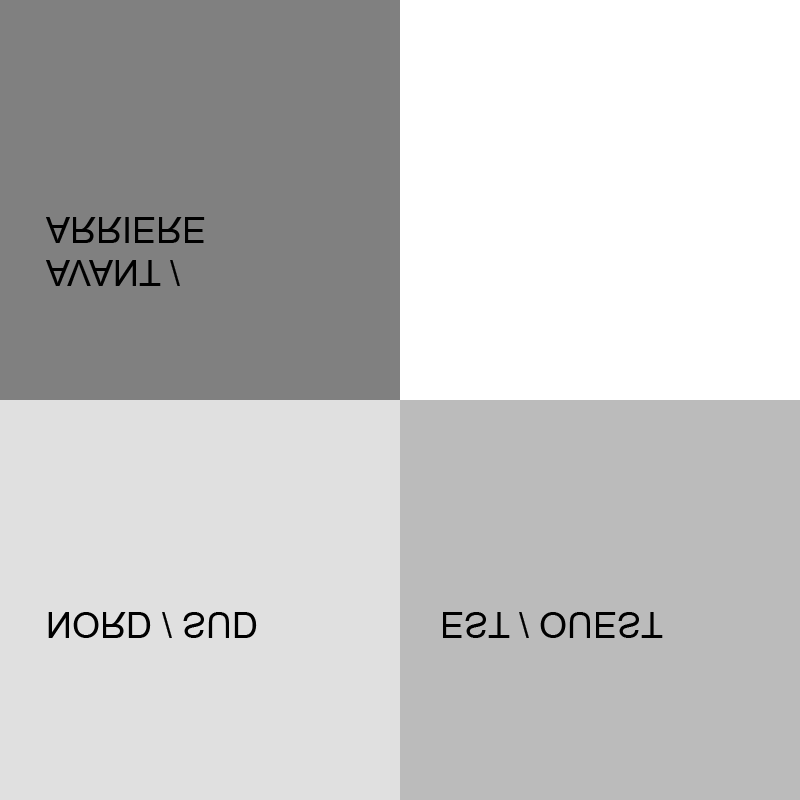
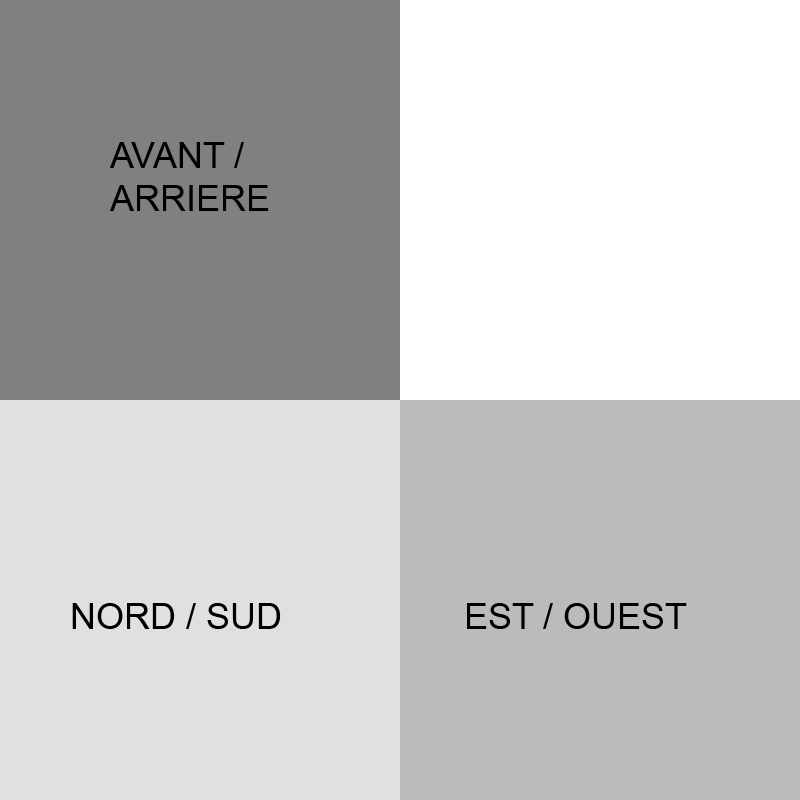
Mise en place d'une texture avec une template finale

Changed region(s): [[0.0625, 0.1562, 0.3438, 0.375], [0.5312, 0.75, 0.875, 0.8125], [0.0625, 0.75, 0.375, 0.8125]]

diff --git a/src/imac2gl3/shapes/Cube.cpp b/src/imac2gl3/shapes/Cube.cpp
@@ -21,7 +21,7 @@ void Cube::build(GLfloat size) {
             m_pDataPointer[0].normal.z = 1.f ;
 
 	    m_pDataPointer[0].texCoords.x = 0.f ;
-            m_pDataPointer[0].texCoords.y = 0.f;
+            m_pDataPointer[0].texCoords.y = 0.5f;
             
            
 
@@ -35,7 +35,7 @@ void Cube::build(GLfloat size) {
             m_pDataPointer[1].normal.z = 1.f;
 
 	    m_pDataPointer[1].texCoords.x = 0.5f;
-            m_pDataPointer[1].texCoords.y = 0.f;
+            m_pDataPointer[1].texCoords.y = 0.5f;
             
        
 
@@ -49,7 +49,7 @@ void Cube::build(GLfloat size) {
             m_pDataPointer[2].normal.z = 1.f;
 
 	    m_pDataPointer[2].texCoords.x = 0.5f;
-            m_pDataPointer[2].texCoords.y = 0.5f;
+            m_pDataPointer[2].texCoords.y = 0.f;
             
              
 
@@ -65,7 +65,7 @@ void Cube::build(GLfloat size) {
             m_pDataPointer[3].normal.z = 1.f ;
 
 	    m_pDataPointer[3].texCoords.x = 0.f ;
-            m_pDataPointer[3].texCoords.y = 0.f;
+            m_pDataPointer[3].texCoords.y = 0.5f;
             
            
 
@@ -79,7 +79,7 @@ void Cube::build(GLfloat size) {
             m_pDataPointer[4].normal.z = 1.f;
 
 	    m_pDataPointer[4].texCoords.x = 0.5f;
-            m_pDataPointer[4].texCoords.y = 0.5f;
+            m_pDataPointer[4].texCoords.y = 0.f;
             
        
 
@@ -93,7 +93,7 @@ void Cube::build(GLfloat size) {
             m_pDataPointer[5].normal.z = 1.f;
 
 	    m_pDataPointer[5].texCoords.x = 0.f;
-            m_pDataPointer[5].texCoords.y = 0.5f;
+            m_pDataPointer[5].texCoords.y = 0.f;
             
 
 /* FACE EST 1 */
@@ -108,7 +108,7 @@ void Cube::build(GLfloat size) {
             m_pDataPointer[6].normal.z = 0.f ;
 
 	    m_pDataPointer[6].texCoords.x = 0.5f ;
-            m_pDataPointer[6].texCoords.y = 0.5f;
+            m_pDataPointer[6].texCoords.y = 1.f;
             
            
 
@@ -122,7 +122,7 @@ void Cube::build(GLfloat size) {
             m_pDataPointer[7].normal.z = 0.f;
 
 	    m_pDataPointer[7].texCoords.x = 1.f;
-            m_pDataPointer[7].texCoords.y = 0.5f;
+            m_pDataPointer[7].texCoords.y = 1.f;
             
        
 
@@ -136,7 +136,7 @@ void Cube::build(GLfloat size) {
             m_pDataPointer[8].normal.z = 0.f;
 
 	    m_pDataPointer[8].texCoords.x = 1.f;
-            m_pDataPointer[8].texCoords.y = 1.f;
+            m_pDataPointer[8].texCoords.y = 0.5f;
 
 /* FACE EST 2 */
 
@@ -150,7 +150,7 @@ void Cube::build(GLfloat size) {
             m_pDataPointer[9].normal.z = 0.f ;
 
 	    m_pDataPointer[9].texCoords.x = 0.5f ;
-            m_pDataPointer[9].texCoords.y = 0.5f;
+            m_pDataPointer[9].texCoords.y = 1.f;
             
            
 
@@ -164,7 +164,7 @@ void Cube::build(GLfloat size) {
             m_pDataPointer[10].normal.z = 0.f;
 
 	    m_pDataPointer[10].texCoords.x = 1.f;
-            m_pDataPointer[10].texCoords.y = 1.f;
+            m_pDataPointer[10].texCoords.y = 0.5f;
             
        
 
@@ -178,7 +178,7 @@ void Cube::build(GLfloat size) {
             m_pDataPointer[11].normal.z = 0.f;
 
 	    m_pDataPointer[11].texCoords.x = 0.5f;
-            m_pDataPointer[11].texCoords.y = 1.f;
+            m_pDataPointer[11].texCoords.y = 0.5f;
 
 /* FACE OUEST 1 */
 
@@ -192,7 +192,7 @@ void Cube::build(GLfloat size) {
             m_pDataPointer[12].normal.z = 0.f ;
 
 	    m_pDataPointer[12].texCoords.x = 0.5f ;
-            m_pDataPointer[12].texCoords.y = 0.5f;
+            m_pDataPointer[12].texCoords.y = 1.f;
             
            
 
@@ -206,7 +206,7 @@ void Cube::build(GLfloat size) {
             m_pDataPointer[13].normal.z = 0.f;
 
 	    m_pDataPointer[13].texCoords.x = 1.f;
-            m_pDataPointer[13].texCoords.y = 0.5f;
+            m_pDataPointer[13].texCoords.y = 1.f;
             
        
 
@@ -220,7 +220,7 @@ void Cube::build(GLfloat size) {
             m_pDataPointer[14].normal.z = 0.f;
 
 	    m_pDataPointer[14].texCoords.x = 1.f;
-            m_pDataPointer[14].texCoords.y = 1.f;
+            m_pDataPointer[14].texCoords.y = 0.5f;
 
 /* FACE OUEST 2 */
 
@@ -234,7 +234,7 @@ void Cube::build(GLfloat size) {
             m_pDataPointer[15].normal.z = 0.f ;
 
 	    m_pDataPointer[15].texCoords.x = 0.5f ;
-            m_pDataPointer[15].texCoords.y = 0.5f;
+            m_pDataPointer[15].texCoords.y = 1.f;
             
            
 
@@ -248,7 +248,7 @@ void Cube::build(GLfloat size) {
             m_pDataPointer[16].normal.z = 0.f;
 
 	    m_pDataPointer[16].texCoords.x = 1.f;
-            m_pDataPointer[16].texCoords.y = 1.f;
+            m_pDataPointer[16].texCoords.y = 0.5f;
             
        
 
@@ -262,7 +262,7 @@ void Cube::build(GLfloat size) {
             m_pDataPointer[17].normal.z = 0.f;
 
 	    m_pDataPointer[17].texCoords.x = 0.5f;
-            m_pDataPointer[17].texCoords.y = 1.f;
+            m_pDataPointer[17].texCoords.y = 0.5f;
 
 /* FACE SUD 1 */
 
@@ -276,7 +276,7 @@ void Cube::build(GLfloat size) {
             m_pDataPointer[18].normal.z = 0.f ;
 
 	    m_pDataPointer[18].texCoords.x = 0.f ;
-            m_pDataPointer[18].texCoords.y = 0.5f;
+            m_pDataPointer[18].texCoords.y = 1.f;
             
            
 
@@ -290,7 +290,7 @@ void Cube::build(GLfloat size) {
             m_pDataPointer[19].normal.z = 0.f;
 
 	    m_pDataPointer[19].texCoords.x = 0.5f;
-            m_pDataPointer[19].texCoords.y = 0.5f;
+            m_pDataPointer[19].texCoords.y = 1.f;
             
        
 
@@ -304,7 +304,7 @@ void Cube::build(GLfloat size) {
             m_pDataPointer[20].normal.z = 0.f;
 
 	    m_pDataPointer[20].texCoords.x = 0.5f;
-            m_pDataPointer[20].texCoords.y = 1.f;
+            m_pDataPointer[20].texCoords.y = 0.5f;
 
 /* FACE SUD 2 */
 
@@ -318,7 +318,7 @@ void Cube::build(GLfloat size) {
             m_pDataPointer[21].normal.z = 0.f ;
 
 	    m_pDataPointer[21].texCoords.x = 0.f ;
-            m_pDataPointer[21].texCoords.y = 0.5f;
+            m_pDataPointer[21].texCoords.y = 1.f;
             
            
 
@@ -332,7 +332,7 @@ void Cube::build(GLfloat size) {
             m_pDataPointer[22].normal.z = 0.f;
 
 	    m_pDataPointer[22].texCoords.x = 0.5f;
-            m_pDataPointer[22].texCoords.y = 1.f;
+            m_pDataPointer[22].texCoords.y = 0.5f;
             
        
 
@@ -346,7 +346,7 @@ void Cube::build(GLfloat size) {
             m_pDataPointer[23].normal.z = 0.f;
 
 	    m_pDataPointer[23].texCoords.x = 0.f;
-            m_pDataPointer[23].texCoords.y = 1.f;
+            m_pDataPointer[23].texCoords.y = 0.5f;
 
 
 /* FACE ARRIERE 1 */
@@ -361,7 +361,7 @@ void Cube::build(GLfloat size) {
             m_pDataPointer[24].normal.z = 0.f ;
 
 	    m_pDataPointer[24].texCoords.x = 0.f ;
-            m_pDataPointer[24].texCoords.y = 0.f;
+            m_pDataPointer[24].texCoords.y = 0.5f;
             
            
 
@@ -375,7 +375,7 @@ void Cube::build(GLfloat size) {
             m_pDataPointer[25].normal.z = 0.f;
 
 	    m_pDataPointer[25].texCoords.x = 0.5f;
-            m_pDataPointer[25].texCoords.y = 0.f;
+            m_pDataPointer[25].texCoords.y = 0.5f;
             
        
 
@@ -389,7 +389,7 @@ void Cube::build(GLfloat size) {
             m_pDataPointer[26].normal.z = 0.f;
 
 	    m_pDataPointer[26].texCoords.x = 0.5f;
-            m_pDataPointer[26].texCoords.y = 0.5f;
+            m_pDataPointer[26].texCoords.y = 0.f;
 
 /* FACE ARRIERE 2 */
 
@@ -403,7 +403,7 @@ void Cube::build(GLfloat size) {
             m_pDataPointer[27].normal.z = -1.f ;
 
 	    m_pDataPointer[27].texCoords.x = 0.f ;
-            m_pDataPointer[27].texCoords.y = 0.f;
+            m_pDataPointer[27].texCoords.y = 0.5f;
             
            
 
@@ -417,7 +417,7 @@ void Cube::build(GLfloat size) {
             m_pDataPointer[28].normal.z = -1.f;
 
 	    m_pDataPointer[28].texCoords.x = 0.5f;
-            m_pDataPointer[28].texCoords.y = 0.5f;
+            m_pDataPointer[28].texCoords.y = 0.f;
             
        
 
@@ -431,7 +431,7 @@ void Cube::build(GLfloat size) {
             m_pDataPointer[29].normal.z = -1.f;
 
 	    m_pDataPointer[29].texCoords.x = 0.f;
-            m_pDataPointer[29].texCoords.y = 0.5f;
+            m_pDataPointer[29].texCoords.y = 0.f;
 
 
 /* FACE NORD 1 */
@@ -446,7 +446,7 @@ void Cube::build(GLfloat size) {
             m_pDataPointer[30].normal.z = 0.f ;
 
 	    m_pDataPointer[30].texCoords.x = 0.f ;
-            m_pDataPointer[30].texCoords.y = 0.5f;
+            m_pDataPointer[30].texCoords.y = 1.f;
             
            
 
@@ -460,7 +460,7 @@ void Cube::build(GLfloat size) {
             m_pDataPointer[31].normal.z = 0.f;
 
 	    m_pDataPointer[31].texCoords.x = 0.5f;
-            m_pDataPointer[31].texCoords.y = 0.5f;
+            m_pDataPointer[31].texCoords.y = 1.f;
             
        
 
@@ -474,7 +474,7 @@ void Cube::build(GLfloat size) {
             m_pDataPointer[32].normal.z = 0.f;
 
 	    m_pDataPointer[32].texCoords.x = 0.5f;
-            m_pDataPointer[32].texCoords.y = 1.f;
+            m_pDataPointer[32].texCoords.y = 0.5f;
 
 /* FACE NORD 2 */
 
@@ -488,7 +488,7 @@ void Cube::build(GLfloat size) {
             m_pDataPointer[33].normal.z = 0.f ;
 
 	    m_pDataPointer[33].texCoords.x = 0.f ;
-            m_pDataPointer[33].texCoords.y = 0.5f;
+            m_pDataPointer[33].texCoords.y = 1.f;
             
            
 
@@ -502,7 +502,7 @@ void Cube::build(GLfloat size) {
             m_pDataPointer[34].normal.z = 0.f;
 
 	    m_pDataPointer[34].texCoords.x = 0.5f;
-            m_pDataPointer[34].texCoords.y = 1.f;
+            m_pDataPointer[34].texCoords.y = 0.5f;
             
        
 
@@ -516,7 +516,7 @@ void Cube::build(GLfloat size) {
             m_pDataPointer[35].normal.z = 0.f;
 
 	    m_pDataPointer[35].texCoords.x = 0.f;
-            m_pDataPointer[35].texCoords.y = 1.f;
+            m_pDataPointer[35].texCoords.y = 0.5f;
 
 
     }
